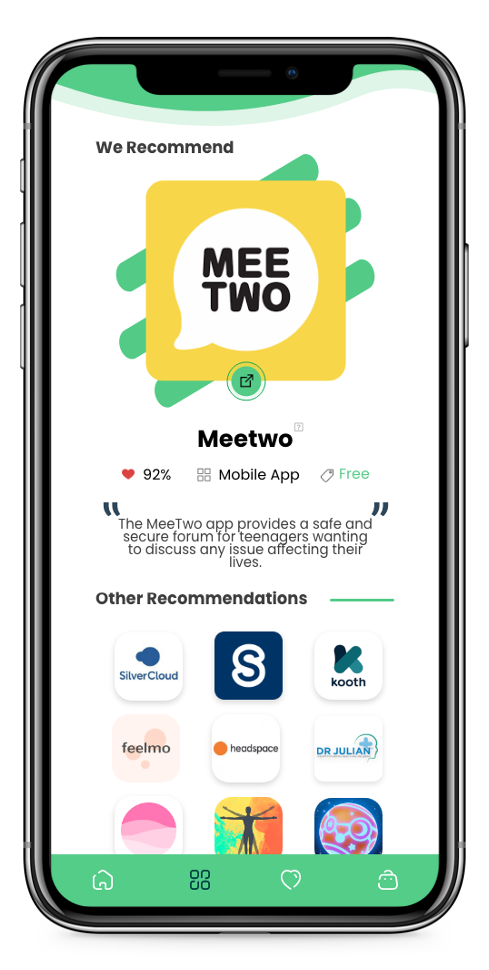
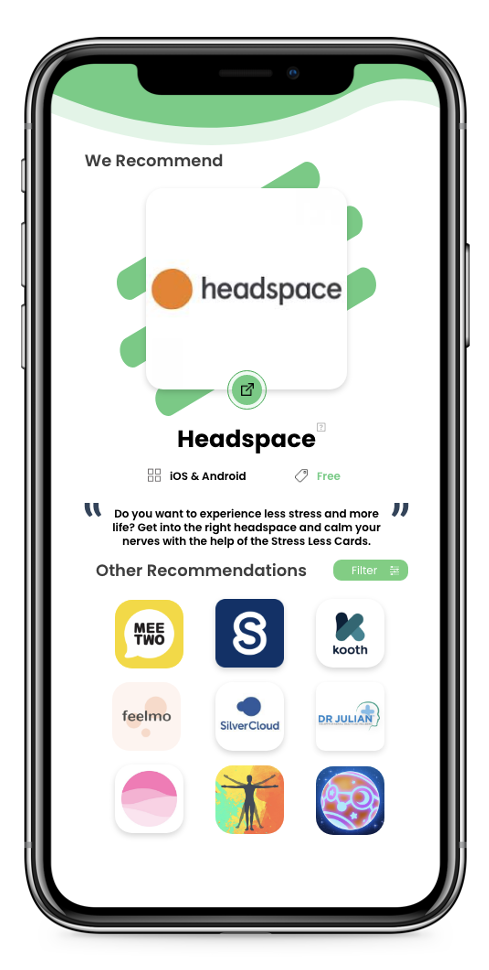
New Ui Updates + Media Query

Changed region(s): [[0.0307, 0.0309, 0.9816, 0.9588]]

diff --git a/index.html b/index.html
@@ -242,9 +242,8 @@
           </div>
         </div>
         <div class="mt-12 sm:mt-16 lg:mt-0 lg:col-start-1">
-          <div class="pr-2 -ml-50 sm:pr-6 md:-ml-16 lg:px-0 lg:m-0 lg:relative lg:h-full">
-            <img
-              class="w-full rounded-xl ring-1 ring-black ring-opacity-0 lg:absolute lg:right-0 lg:h-full lg:w-auto lg:max-w-none animation-element slide-left"
+          <div class="screens pr-2 -ml-50 sm:pr-6 lg:px-0 lg:m-0 lg:relative lg:h-full">
+            <img class="w-full rounded-xl ring-1 ring-black ring-opacity-0 lg:absolute lg:right-0 lg:h-full lg:w-auto lg:max-w-none animation-element slide-left"
               src="img/three-screen.png" alt="Customer profile user interface">
           </div>
         </div>
@@ -444,7 +443,7 @@
               </defs>
               <rect width="784" height="404" fill="url(#e80155a9-dfde-425a-b5ea-1f6fadd20131)" />
             </svg>
-            <img class="relative mx-auto" width="550" src="img/Commercial_dashboard.png" alt="">
+            <img class="relative mx-auto" width="280" src="img/Recc.png" alt="">
           </div>
         </div>
       </div>
@@ -530,7 +529,7 @@
                     30-Day Trial
                   </h3>
                 </div>
-                <div class="mt-8 mb-14 flex items-baseline text-6xl font-extrabold">
+                <div class="price-text mt-8 mb-14 flex items-baseline text-6xl font-extrabold">
                   Free Tier for a Limited Period
                   <!-- <span class="ml-1 text-2xl font-medium text-gray-500">
                   /mo
@@ -625,7 +624,7 @@
                     Based on
                   </span>
                 </div> -->
-                <div class="mt-2 flex items-baseline text-6xl font-extrabold">
+                <div class="price-text mt-2 flex items-baseline text-6xl font-extrabold">
                  £1  per employee per month
                 </div>
                 <!-- <div>

diff --git a/styles.css b/styles.css
@@ -10,7 +10,15 @@ body {
  
   @media (max-width: 375px) {
     .four-boxes {
-      padding-bottom: 2rem;
+      padding-bottom: 2rem;  
+    }
+
+    .price-text {
+      font-size: 2.75rem;
+    }
+
+    .screens img {
+      width: 90% !important;
     }
   }
 
@@ -25,5 +33,17 @@ body {
     .homepic {
       display: flex;
       padding-top: 2rem;
+    }
+    
+    .video {
+      margin-top: 3rem;
+    }
+
+    .screens {
+      text-align: -webkit-center;
+    }
+
+    .screens img {
+      width: 70%;
     }
   }
